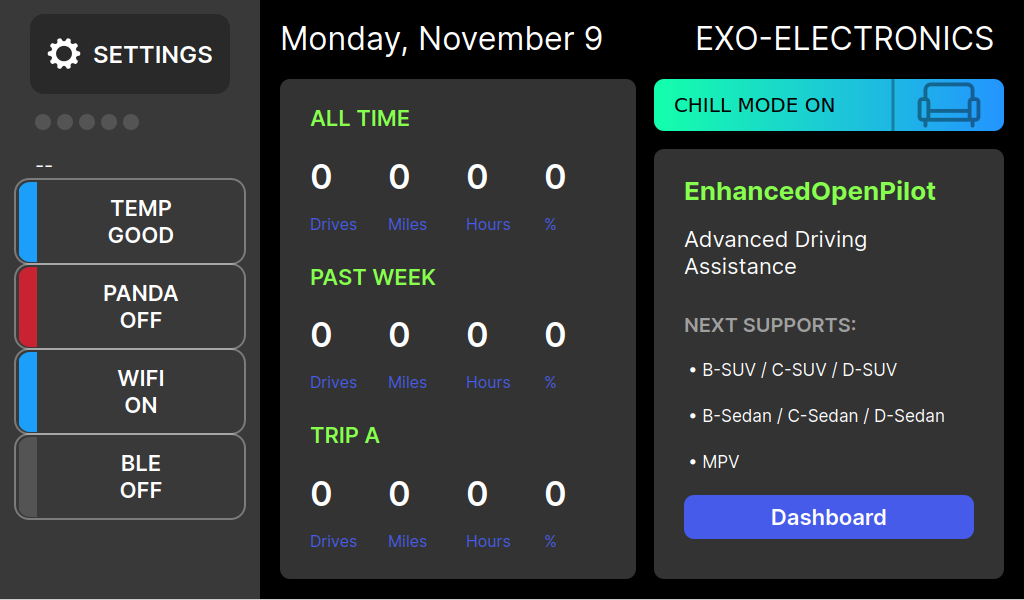
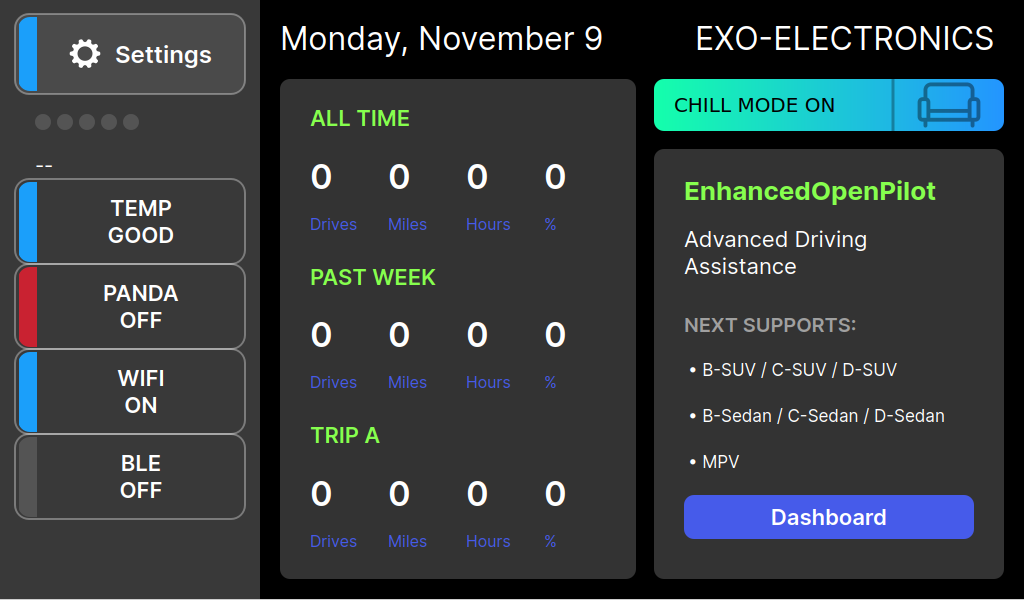
ui(01m): Settings button in the status-card style (step 4.2)
Same x/width, radius, outline and left tab as the TEMP/PANDA/WIFI/BLE
cards, a step lighter so it reads as a button; gear + "Settings". The
onroad bookmark button uses the same style.

Changed region(s): [[0.0, 0.0, 0.25, 0.18]]

diff --git a/selfdrive/ui/qt/sidebar.cc b/selfdrive/ui/qt/sidebar.cc
@@ -7,19 +7,32 @@
 #include "selfdrive/ui/qt/util.h"
 
 void Sidebar::drawButton(QPainter &p, const QRect &r, const QPixmap &icon, const QString &text, bool pressed) {
-  p.setOpacity(pressed ? 0.65 : 1.0);
+  // Same family as the status cards (drawMetric): 14 px radius, soft white
+  // outline, a blue tab on the left; filled a step lighter so it reads as a
+  // button, darker while pressed.
   p.setPen(Qt::NoPen);
-  p.setBrush(QColor(0x29, 0x29, 0x29));
+  p.setBrush(pressed ? QColor(0x2a, 0x2a, 0x2a) : QColor(0x4a, 0x4a, 0x4a));
+  p.drawRoundedRect(r, 14, 14);
+
+  p.setBrush(theme::GOOD);
+  p.setClipRect(r.x() + 4, r.y(), 18, r.height(), Qt::ReplaceClip);
+  p.drawRoundedRect(QRect(r.x() + 3, r.y() + 3, 70, r.height() - 6), 12, 12);
+  p.setClipping(false);
+
+  QPen pen(QColor(0xff, 0xff, 0xff, 0x55));
+  pen.setWidth(2);
+  p.setPen(pen);
+  p.setBrush(Qt::NoBrush);
   p.drawRoundedRect(r, 14, 14);
 
   p.setFont(theme::inter(24, QFont::DemiBold));
   const int text_w = p.fontMetrics().horizontalAdvance(text);
-  const int gap = 12;
-  int x = r.x() + (r.width() - icon.width() - gap - text_w) / 2;
+  const int gap = 14;
+  const QRect content = r.adjusted(22, 0, 0, 0);  // right of the tab
+  int x = content.x() + (content.width() - icon.width() - gap - text_w) / 2;
   p.drawPixmap(x, r.y() + (r.height() - icon.height()) / 2, icon);
   p.setPen(theme::WHITE);
   p.drawText(QRect(x + icon.width() + gap, r.y(), text_w + 2, r.height()), Qt::AlignLeft | Qt::AlignVCenter, text);
-  p.setOpacity(1.0);
 }
 
 void Sidebar::drawMetric(QPainter &p, const QPair<QString, QString> &label, QColor c, int y) {
@@ -45,7 +58,7 @@ void Sidebar::drawMetric(QPainter &p, const QPair<QString, QString> &label, QCol
 Sidebar::Sidebar(QWidget *parent) : QFrame(parent), onroad(false), flag_pressed(false), settings_pressed(false), mic_indicator_pressed(false) {
   // Dark buttons with white icons (PyQt5 design), not comma's white button
   // images; the offroad home button did nothing, so offroad it is not drawn.
-  gear_img = loadPixmap("../assets/icons/settings.png", QSize(34, 34));
+  gear_img = loadPixmap("../assets/icons/settings.png", QSize(32, 32));
   flag_img = loadPixmap("../assets/images/button_flag.png", QSize(34, 34));
   mic_img = loadPixmap("../assets/icons/microphone.png", QSize(22, 22));
   link_img = loadPixmap("../assets/icons/link.png", QSize(36, 36));
@@ -209,9 +222,9 @@ void Sidebar::paintEvent(QPaintEvent *event) {
   p.fillRect(rect(), theme::SIDEBAR_BG);
 
   // buttons
-  drawButton(p, settings_btn, gear_img, tr("SETTINGS"), settings_pressed);
+  drawButton(p, settings_btn, gear_img, tr("Settings"), settings_pressed);
   if (onroad) {
-    drawButton(p, home_btn, flag_img, tr("MARK"), flag_pressed);
+    drawButton(p, home_btn, flag_img, tr("Bookmark"), flag_pressed);
   }
   p.setPen(Qt::NoPen);
   if (recording_audio) {

diff --git a/selfdrive/ui/qt/sidebar.h b/selfdrive/ui/qt/sidebar.h
@@ -55,7 +55,7 @@ protected:
 
   // Resized for 600px height / ~260px width
   const QRect home_btn = QRect(40, 520, 180, 75);
-  const QRect settings_btn = QRect(30, 15, 200, 80);
+  const QRect settings_btn = QRect(15, 15, 230, 80);  // same x/width as the status cards
   const QRect mic_indicator_btn = QRect(140, 115, 55, 28);
   // Status palette from the PyQt5 design (theme.h): blue good, amber warning.
   const QColor good_color = theme::GOOD;
